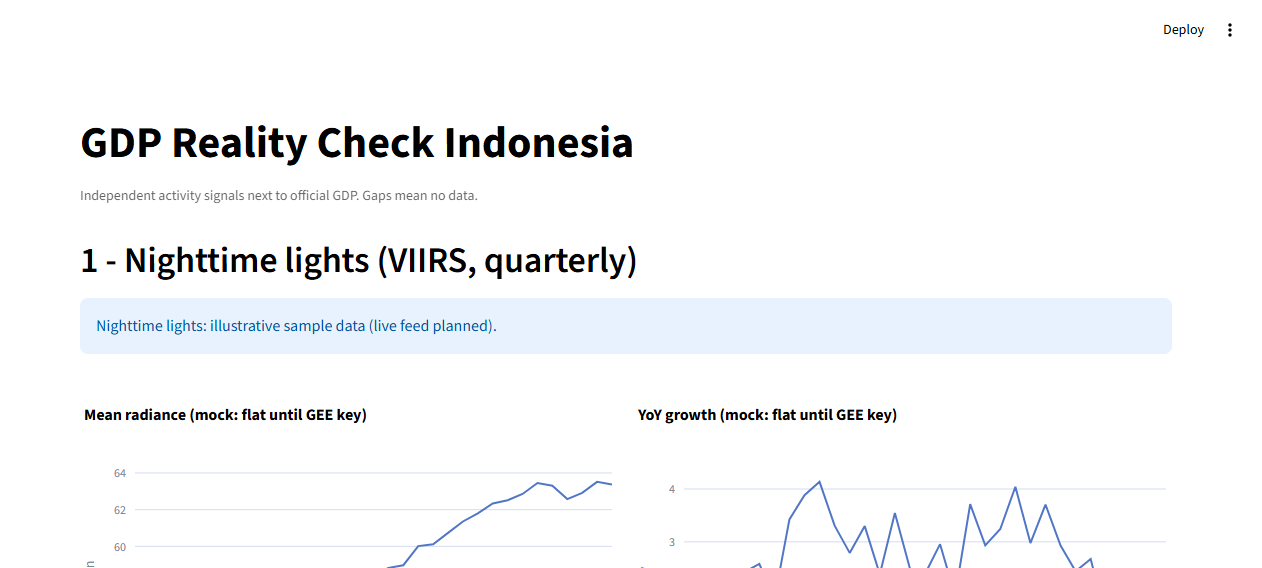
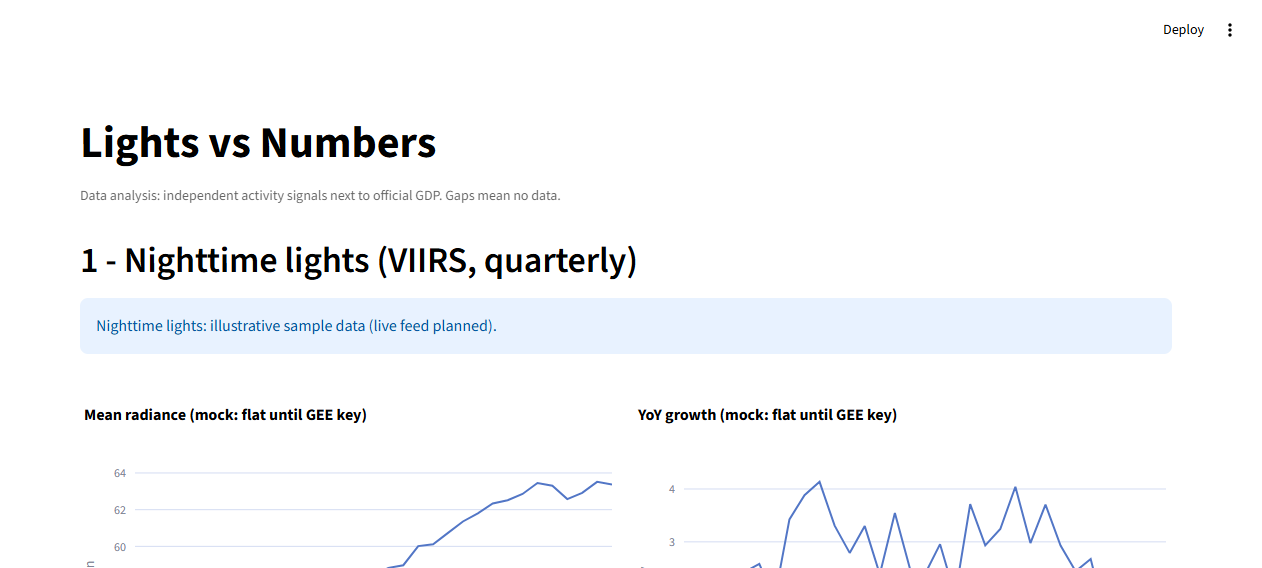
rebrand to data analysis framing, drop reality-check naming

Changed region(s): [[0.0618, 0.2095, 0.5254, 0.2993], [0.0618, 0.3292, 0.4326, 0.3592]]

diff --git a/dashboard/app.py b/dashboard/app.py
@@ -1,4 +1,4 @@
-"""Streamlit dashboard: GDP Reality Check Indonesia - descriptive edition.
+"""Streamlit dashboard: Lights vs Numbers - descriptive edition.
 
 Story lives ON the graphs (annotated callouts, highlights). Minimal text.
 No indexes, no verdicts, no colors that mean good/bad. Ryo light theme.
@@ -19,9 +19,9 @@ ROOT = Path(__file__).resolve().parent.parent
 PROC = ROOT / "data" / "processed"
 RAW = ROOT / "data" / "raw"
 
-st.set_page_config(page_title="GDP Reality Check Indonesia", layout="wide")
-st.title("GDP Reality Check Indonesia")
-st.caption("Independent activity signals next to official GDP. Gaps mean no data.")
+st.set_page_config(page_title="Lights vs Numbers", layout="wide")
+st.title("Lights vs Numbers")
+st.caption("Data analysis: independent activity signals next to official GDP. Gaps mean no data.")
 
 cfg = yaml.safe_load(open(ROOT / "config.yaml"))
 MOCK_NTL = not (os.getenv("GEE_PROJECT", "").strip() or cfg.get("gee", {}).get("project"))

diff --git a/scripts/build_pages.py b/scripts/build_pages.py
@@ -298,7 +298,7 @@ PAGE = """<!DOCTYPE html>
 <head>
 <meta charset="utf-8">
 <meta name="viewport" content="width=device-width, initial-scale=1">
-<title>Lights vs Numbers - GDP Reality Check Indonesia</title>
+<title>Lights vs Numbers - Indonesia GDP Data Analysis</title>
 <style>
 body {{ font-family: -apple-system, 'Segoe UI', Roboto, sans-serif; max-width: 1100px;
 margin: 0 auto; padding: 24px; background: #FFFFFF; color: #000000; }}
@@ -316,8 +316,8 @@ border-top: 1px solid #D4DCF2; padding-top: 12px; }}
 </style>
 </head>
 <body>
-<h1>GDP Reality Check Indonesia</h1>
-<p>Independent activity signals next to official GDP. Gaps mean no data.
+<h1>Lights vs Numbers</h1>
+<p>Data analysis: independent activity signals next to official GDP. Gaps mean no data.
 No index, no verdicts. Static mirror of the Streamlit dashboard, rebuilt on
 every push. <a href="https://github.com/AKARandy/Lights-vs-Numbers">Source on GitHub</a>.</p>
 {body}

diff --git a/main.py b/main.py
@@ -1,4 +1,4 @@
-"""GDP Reality Check Indonesia - pipeline orchestration.
+"""Lights vs Numbers - pipeline orchestration.
 
 Runs the four signal modules (each isolated: a failure falls back to
 cached/mock outputs) then the descriptive join. No indexes, no verdicts.

diff --git a/modules/__init__.py b/modules/__init__.py
@@ -1,1 +1,1 @@
-"""GDP Reality Check Indonesia - data modules."""
+"""Lights vs Numbers - data modules."""

diff --git a/README.md b/README.md
@@ -1,8 +1,8 @@
-# Lights vs Numbers - GDP Reality Check Indonesia
+# Lights vs Numbers - Indonesia GDP Data Analysis
 
-Independent activity signals plotted next to official GDP. **No index, no
-verdicts, no weights.** Just numbers, charts and tables, with the story
-annotated on the graphs.
+Data analysis comparing official GDP against independent activity signals.
+**No index, no verdicts, no weights.** Just numbers, charts and tables, with
+the story annotated on the graphs.
 
 ![CI](https://github.com/AKARandy/Lights-vs-Numbers/actions/workflows/ci.yml/badge.svg)
 

diff --git a/reports/FINDINGS.md b/reports/FINDINGS.md
@@ -1,4 +1,4 @@
-# FINDINGS - GDP Reality Check Indonesia (descriptive, no index)
+# FINDINGS - Lights vs Numbers (descriptive, no index)
 
 Ground: PortWatch daily 262,088 rows x 75 ports (2019-01-01 to 2026-08-28, zero
 nulls) - Trends 262 weeks x 3 keywords - NTL + electricity = labeled MOCK
